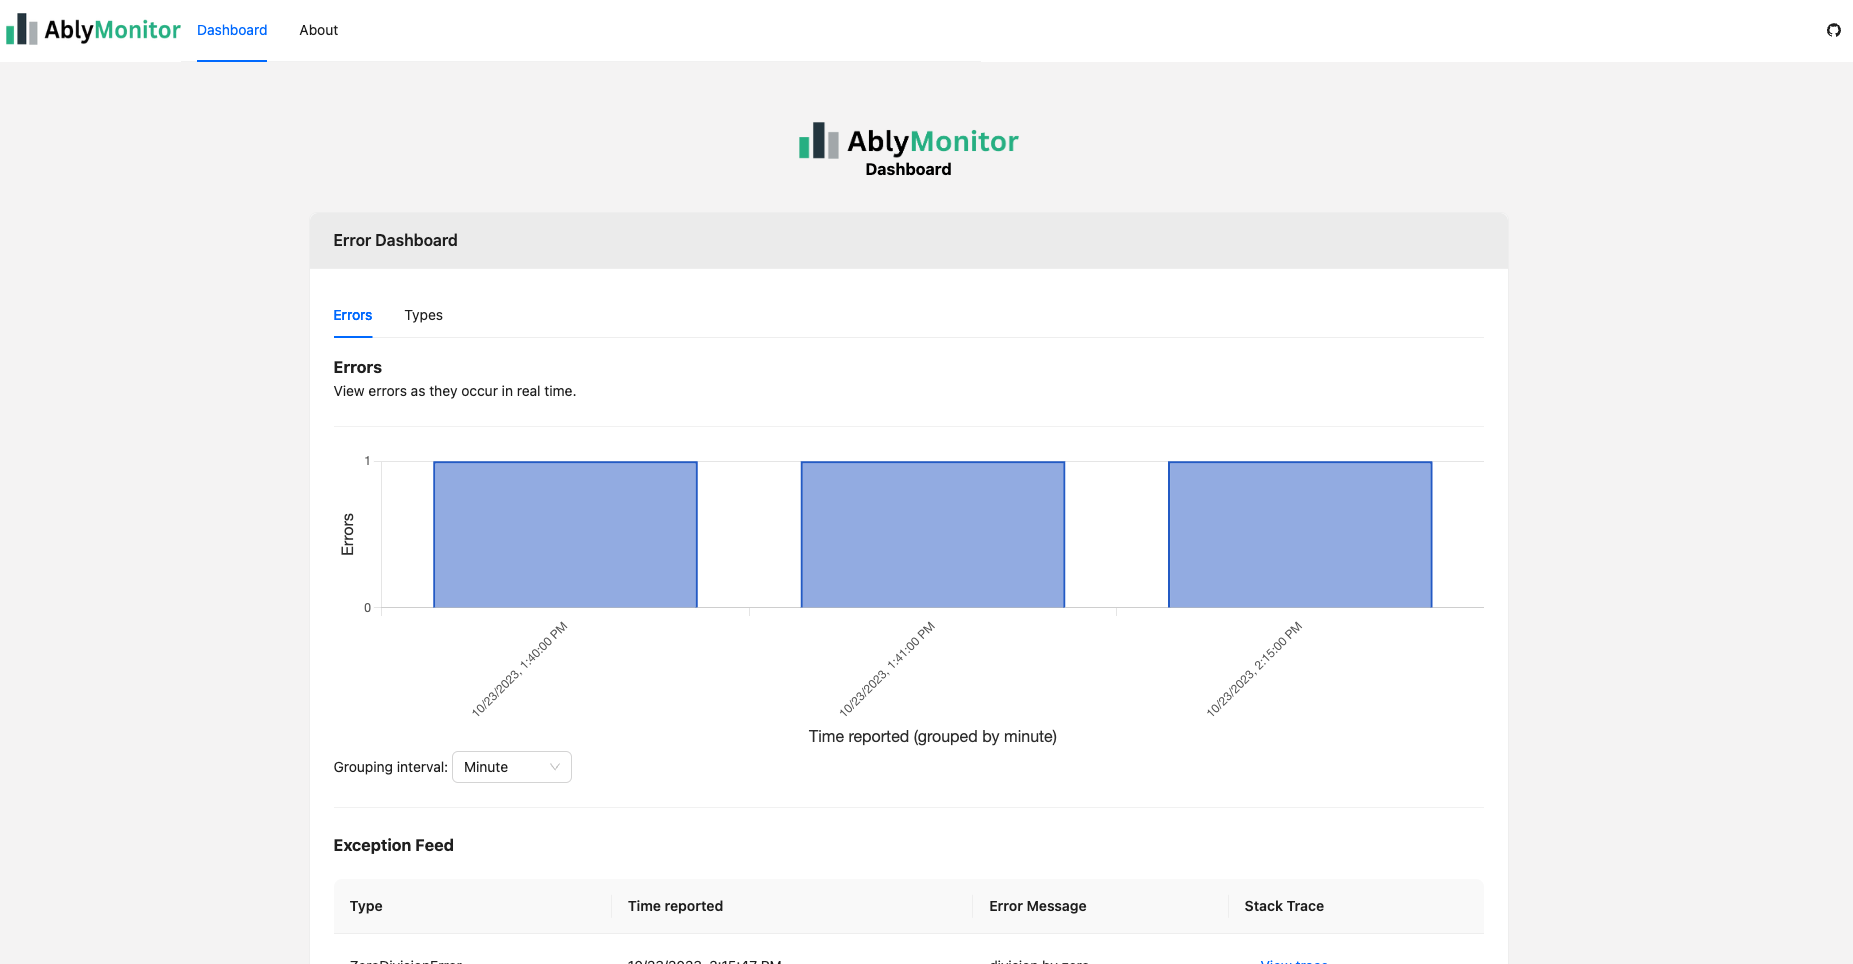
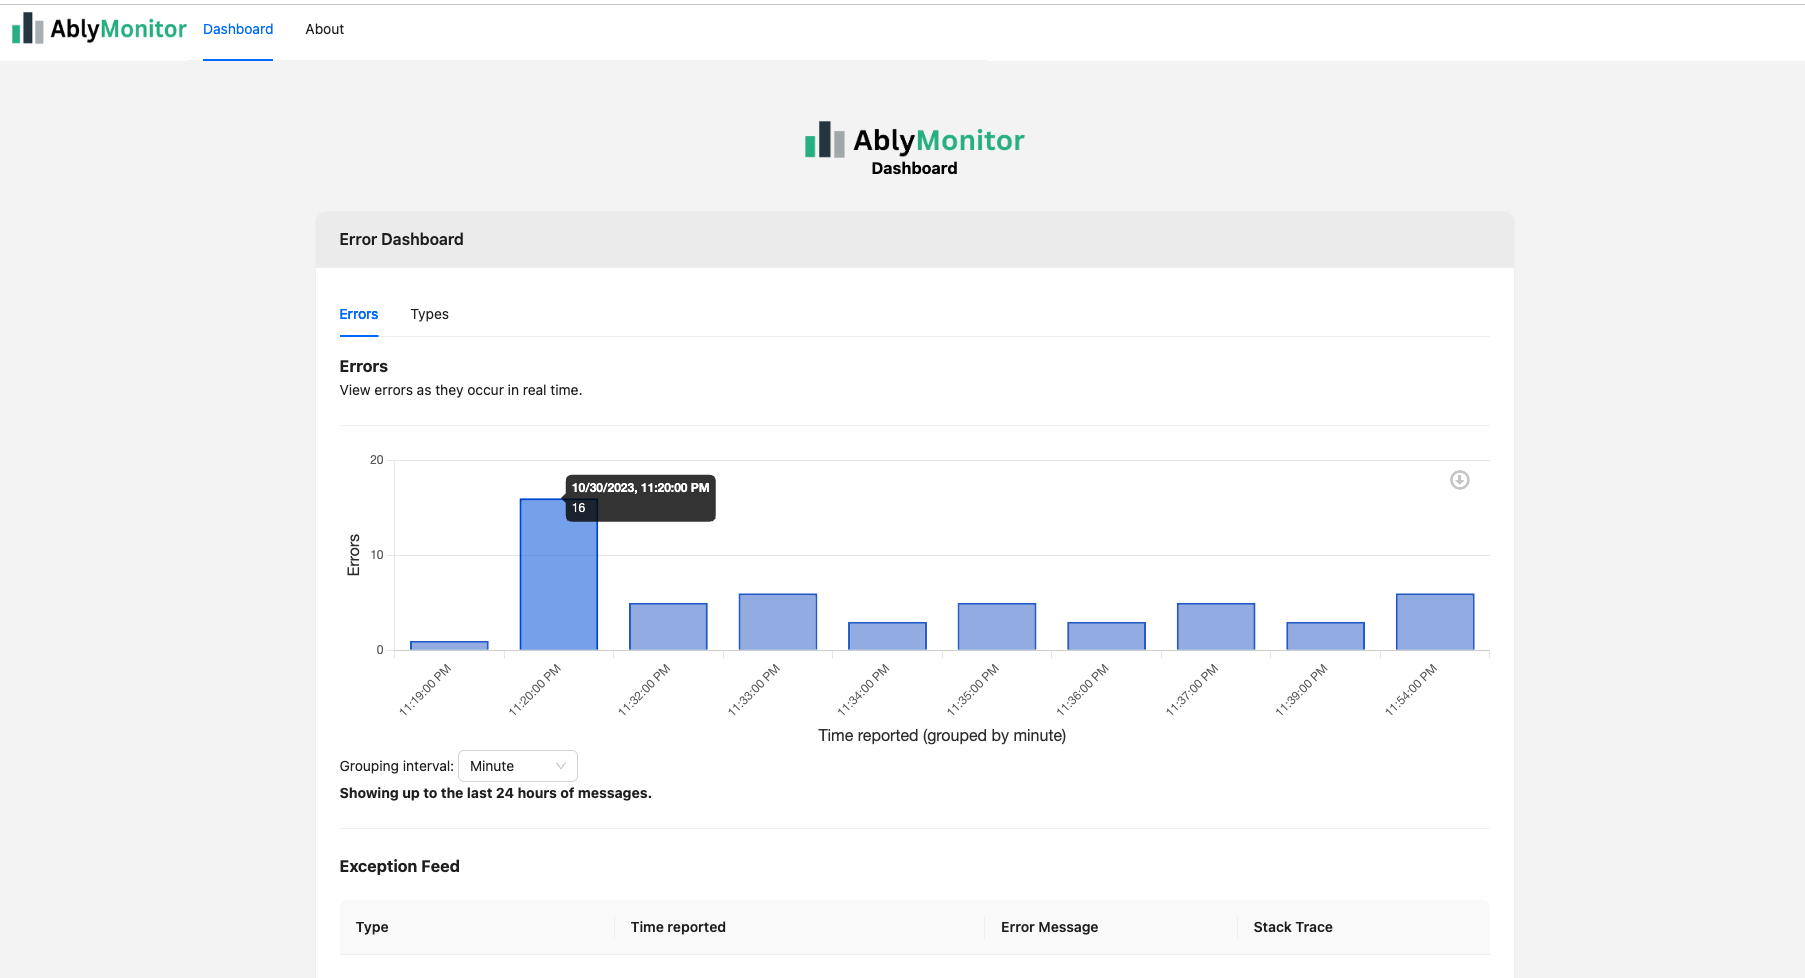
update groupoing

diff --git a/app/lib/ErrorDashboard.js b/app/lib/ErrorDashboard.js
@@ -1,7 +1,7 @@
 'use client'
 
 import { Button, Card, Col, Divider, Image, Modal, Row, Select, Table, Tabs } from "antd";
-import { ABLY_CHANNEL, ABLY_KEY } from "../constants";
+import { ABLY_CHANNEL, ABLY_KEY, HISTORY_HOURS, HISTORY_LIMIT } from "../constants";
 import { useEffect, useRef, useState } from "react";
 import * as Ably from 'ably';
 import { CopyOutlined } from "@ant-design/icons";
@@ -116,17 +116,15 @@ const ErrorDashboard = ({ }) => {
             // https://ably.com/docs/storage-history/history?lang=javascript
             const options = {
                 direction: 'backwards',
-                limit: 1000, // could be variable depending on retention/rendering needs.
+                limit: HISTORY_LIMIT, // TODO: add paginated request could be variable depending on retention/rendering needs.
             }
             channel.history(options, (err, page) => {
                 if (err) {
                     console.log('error getting history', err)
                     return
                 }
-                console.log('got history', page)
                 const pastMessages = page.items.map(item => JSON.parse(item.data));
-                const newCounts = groupMessages(pastMessages, bucketType)
-                setCounts(newCounts)
+                console.log('got history', pastMessages)
                 setMessages(pastMessages)
             });
 
@@ -134,15 +132,10 @@ const ErrorDashboard = ({ }) => {
             channel.subscribe('exception', function (message) {
                 const data = JSON.parse(message.data)
                 console.log('received message', data)
-                const newMessages = [...messages, data]
                 // Note could improve performance by only updating counts.
-                setMessages(newMessages)
-                const newCounts = groupMessages(newMessages, bucketType)
-                setCounts(newCounts)
+                setMessages(messages => [...messages, data])
             });
         });
-
-
         // setClient(ablyClient)
     }, [])
 
@@ -152,9 +145,9 @@ const ErrorDashboard = ({ }) => {
 
     useEffect(() => {
         // Update grouping with new type.
-        const newCounts = groupMessages(messages, bucketType)
-        setCounts(newCounts)
-    }, [bucketType])
+        console.log('messages', messages)
+        setCounts(groupMessages(messages, bucketType))
+    }, [bucketType, messages]);
 
     const hasMessages = !isEmpty(messages)
 
@@ -173,24 +166,29 @@ const ErrorDashboard = ({ }) => {
             children: <div>
                 <CustomHeading title='Errors' subtitle='View errors as they occur in real time.' />
                 <ColumnChart data={counts}
-                 download={true} 
+                    download={true}
                     xtitle={`Time reported (grouped by ${bucketType})`}
                     ytitle="Errors"
-                    library={{backgroundColor: "red",
-                    plugins: {},
-                    scales: {
-                        y: {
-                            ticks: {
-                                stepSize: 1
-                            }
-                        },
-                        x: {
-                            ticks: {
-                                minRotation: 45,
+                    library={{
+                        plugins: {},
+                        scales: {
+                            y: {
+                                ticks: {
+                                    stepSize: 1
+                                }
+                            },
+                            x: {
+                                ticks: {
+                                    minRotation: 45,
+                                    // format
+                                    callback: function (value, index, values) {
+                                        const time = counts[index][0].split(', ')[1]
+                                        return time;
+                                    }
+                                }
                             }
                         }
-                    }
-                }}
+                    }}
                     // tilt 45 degrees
                     xmin={xmin}
                     xmax={xmax}
@@ -254,6 +252,10 @@ const ErrorDashboard = ({ }) => {
                                 {/* <Select.Option value="day">Day</Select.Option> */}
                             </Select>
                         </span>
+                        <br/>
+                        <div className="bold">
+                            Showing up to the last {HISTORY_HOURS} hours of messages.
+                        </div>
                     </div>
 
                     <Divider />

diff --git a/app/about/page.js b/app/about/page.js
@@ -1,6 +1,6 @@
 'use client';
 
-import { APP_NAME, EXAMPLE_DATASETS, GITHUB_REPO } from "../constants";
+import { APP_NAME, EXAMPLE_DATASETS, GITHUB_REPO, HISTORY_LIMIT } from "../constants";
 import Image from 'next/image'
 import Button from 'antd/es/button'
 import { useRouter } from "next/navigation";
@@ -8,9 +8,10 @@ import { useState } from "react";
 import { Card, Divider } from "antd";
 
 const SECTIONS = [
-    "AblyMonitor is a self-hostable NextJS app that visualizes exceptions in a dashboard as they are thrown from your application in real time.",
+    `${APP_NAME} is a self-hostable NextJS app that visualizes exceptions in a dashboard as they are thrown from your application in real time.`,
     "Apps like Sentry and Datadog exist for observability, but they often come with complex setups and a steep learning curve, and sometimes you may just be looking at a narrower problem of needing exception monitoring.",
     "The error message dashboard works by integrating into your application and capturing exceptions as they occur. It provides a real-time interface that displays these exceptions in a user-friendly manner, allowing developers to quickly identify and respond to issues.",
+    `On refresh, ${APP_NAME} pulls up to the last ${HISTORY_LIMIT} messages from the Ably channel and displays them`,
 ]
 
 

diff --git a/app/constants/index.js b/app/constants/index.js
@@ -6,4 +6,8 @@ export const ABLY_CHANNEL = process.env.NEXT_PUBLIC_ABLY_CHANNEL
 
 export const PRIMARY_COLOR = '#44B78B'
 
+// Default limits, some vary by Ably SDK.
+export const HISTORY_LIMIT = 1000
+export const HISTORY_HOURS = 24 
+
 export const GITHUB_REPO = "https://github.com/cbonoz/ably23"
